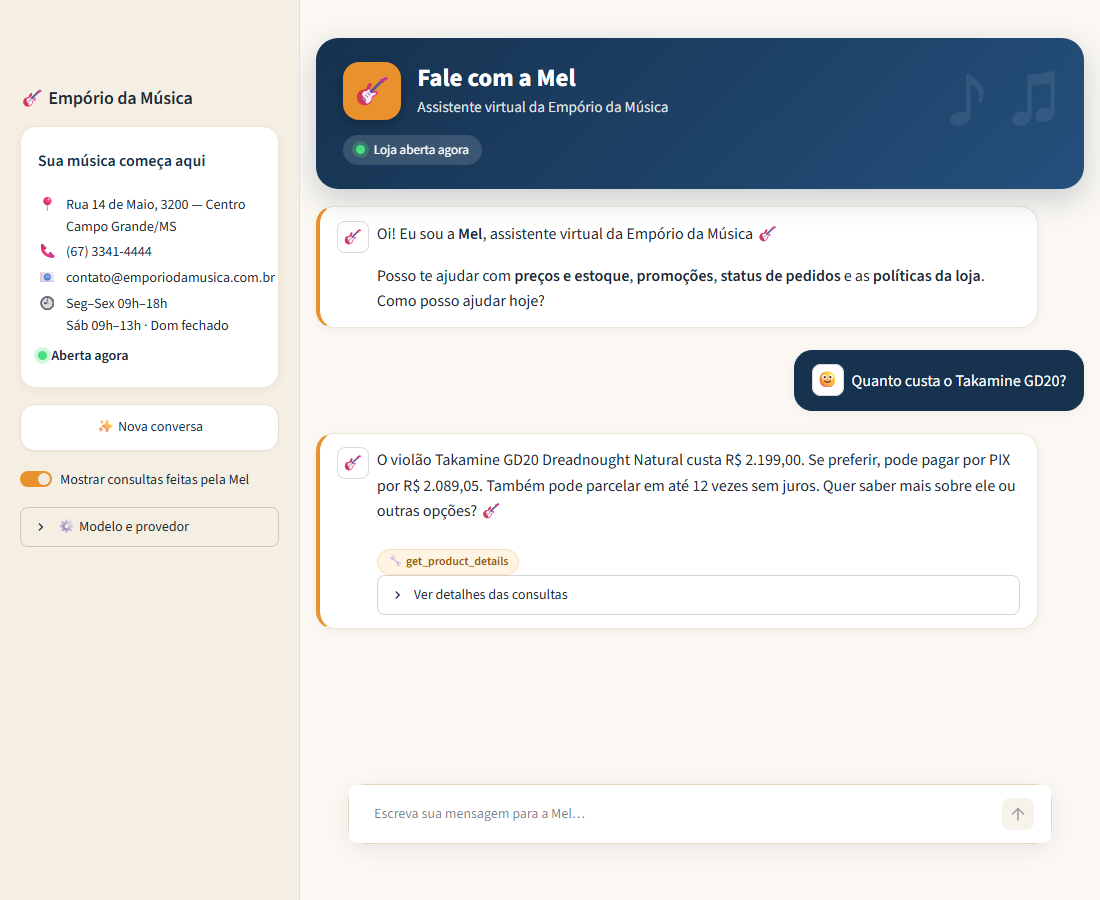
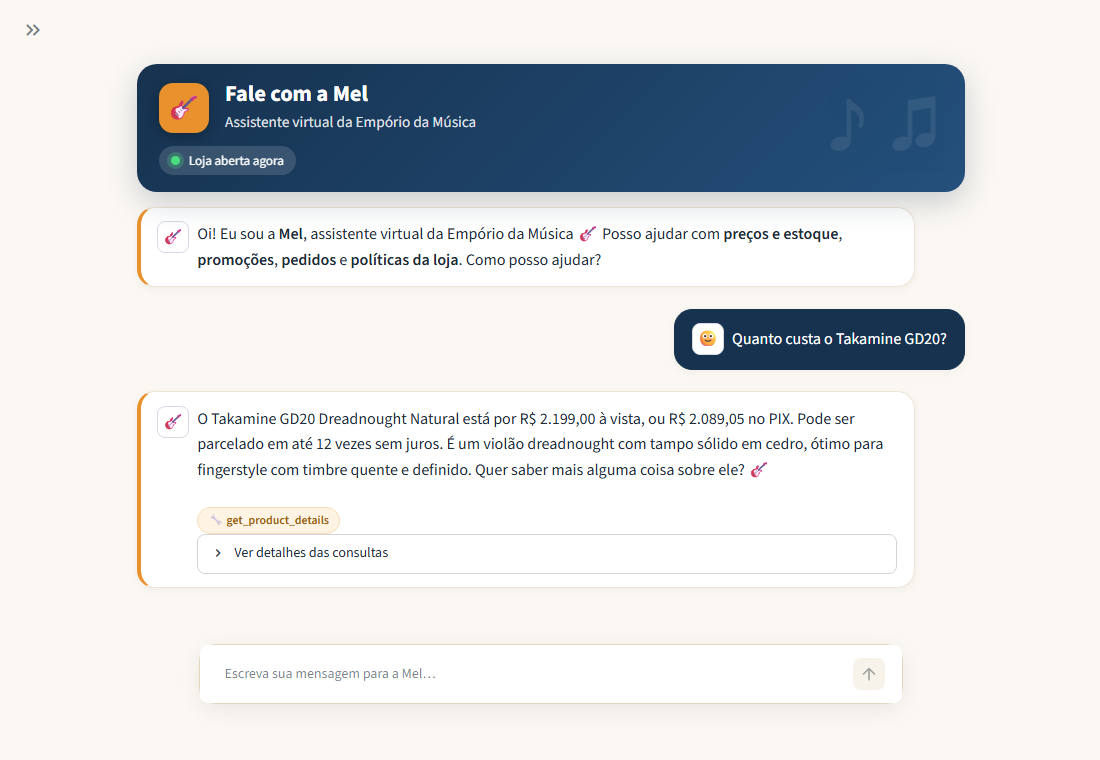
fix(ui): hero no longer clipped when the sidebar is collapsed; compact layout

diff --git a/app_streamlit.py b/app_streamlit.py
@@ -16,9 +16,8 @@ from emporio_agent.agent import Agent  # noqa: E402
 from emporio_agent.llm_setup import PRESETS, Settings, is_configured, load_settings  # noqa: E402
 from emporio_agent.store_hours import store_status  # noqa: E402
 
-GREETING = ("Oi! Eu sou a **Mel**, assistente virtual da Empório da Música 🎸\n\n"
-            "Posso te ajudar com **preços e estoque**, **promoções**, **status de pedidos** e as "
-            "**políticas da loja**. Como posso ajudar hoje?")
+GREETING = ("Oi! Eu sou a **Mel**, assistente virtual da Empório da Música 🎸 Posso ajudar com **preços e estoque**, "
+            "**promoções**, **pedidos** e **políticas da loja**. Como posso ajudar?")
 
 SUGGESTIONS = [
     ("🎸", "Violões até R$ 1000", "Quais opções de violões vocês têm disponíveis custando até R$1000?"),
@@ -34,13 +33,14 @@ NAVY, AMBER = "#16324F", "#E8912D"
 CSS = f"""
 <style>
 /* ---------- layout ---------- */
-.block-container {{ max-width: 860px; padding-top: 1.4rem; padding-bottom: 6rem; }}
+.block-container {{ max-width: 860px; padding-top: 3rem; padding-bottom: 1.5rem; }}
+header[data-testid="stHeader"] {{ background: transparent; }}
 footer, #MainMenu {{ visibility: hidden; }}
 
 /* ---------- hero ---------- */
 .hero {{
   background: linear-gradient(135deg, {NAVY} 0%, #24507C 100%);
-  border-radius: 22px; padding: 1.5rem 1.7rem; color: #fff; margin-bottom: 1.1rem;
+  border-radius: 20px; padding: 1.05rem 1.4rem 1.1rem; color: #fff; margin-bottom: .9rem;
   box-shadow: 0 10px 30px rgba(22, 50, 79, .22); position: relative; overflow: hidden;
 }}
 .hero::after {{
@@ -49,13 +49,13 @@ footer, #MainMenu {{ visibility: hidden; }}
 }}
 .hero-row {{ display: flex; align-items: center; gap: 1rem; }}
 .hero-logo {{
-  width: 58px; height: 58px; border-radius: 16px; background: {AMBER}; display: grid; place-items: center;
-  font-size: 1.9rem; box-shadow: 0 4px 12px rgba(0,0,0,.25); flex: none;
+  width: 50px; height: 50px; border-radius: 14px; background: {AMBER}; display: grid; place-items: center;
+  font-size: 1.6rem; box-shadow: 0 4px 12px rgba(0,0,0,.25); flex: none;
 }}
-.hero h1 {{ margin: 0; padding: 0; font-size: 1.55rem; line-height: 1.2; color: #fff; font-weight: 750; }}
+.hero h1 {{ margin: 0; padding: 0; font-size: 1.4rem; line-height: 1.2; color: #fff; font-weight: 750; }}
 .hero p {{ margin: .15rem 0 0; opacity: .85; font-size: .95rem; }}
 .pill {{
-  display: inline-flex; align-items: center; gap: .45rem; margin-top: .9rem; padding: .28rem .8rem;
+  display: inline-flex; align-items: center; gap: .45rem; margin-top: .7rem; padding: .25rem .75rem;
   border-radius: 999px; background: rgba(255,255,255,.14); font-size: .82rem; backdrop-filter: blur(4px);
 }}
 .dot {{ width: 9px; height: 9px; border-radius: 50%; display: inline-block; margin-right: .1rem; }}
@@ -222,9 +222,9 @@ prompt = st.session_state.pop("pending_prompt", None) or typed
 
 if len(st.session_state.messages) == 1 and not prompt:
     st.markdown('<div class="section-label">Comece por aqui</div>', unsafe_allow_html=True)
-    for row in range(0, len(SUGGESTIONS), 2):
-        cols = st.columns(2)
-        for col, (icon, label, text) in zip(cols, SUGGESTIONS[row:row + 2]):
+    for row in range(0, len(SUGGESTIONS), 3):
+        cols = st.columns(3)
+        for col, (icon, label, text) in zip(cols, SUGGESTIONS[row:row + 3]):
             if col.button(f"{icon}  {label}", key=f"sug_{label}", use_container_width=True):
                 st.session_state.pending_prompt = text
                 st.rerun()
